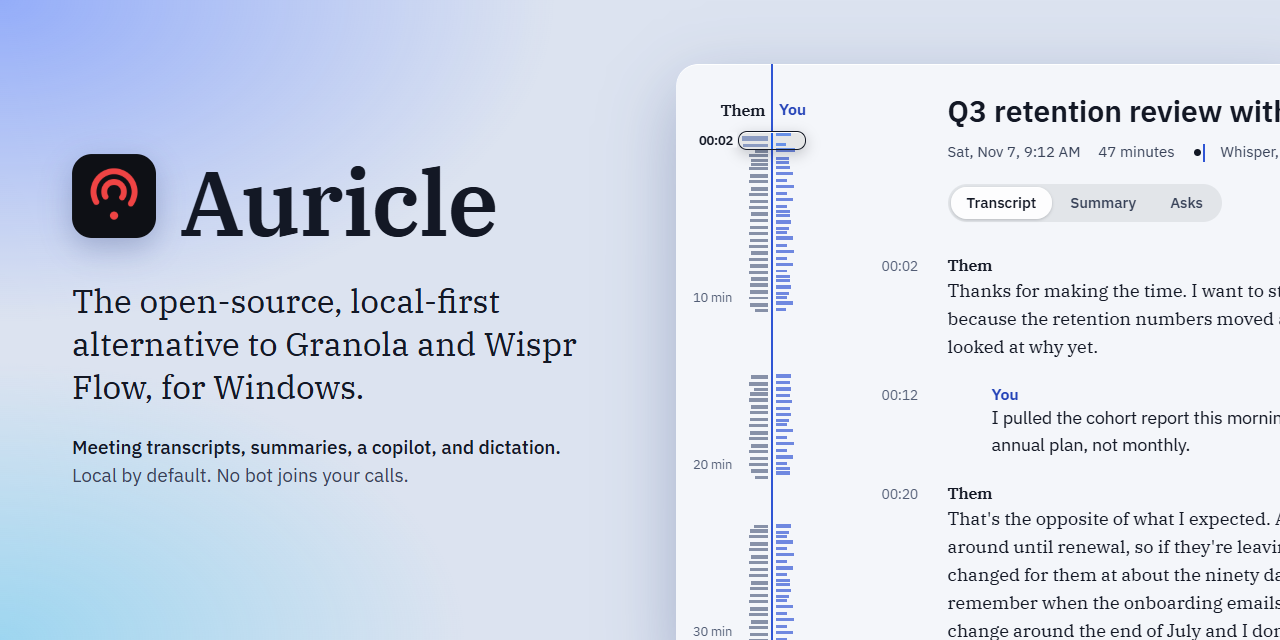
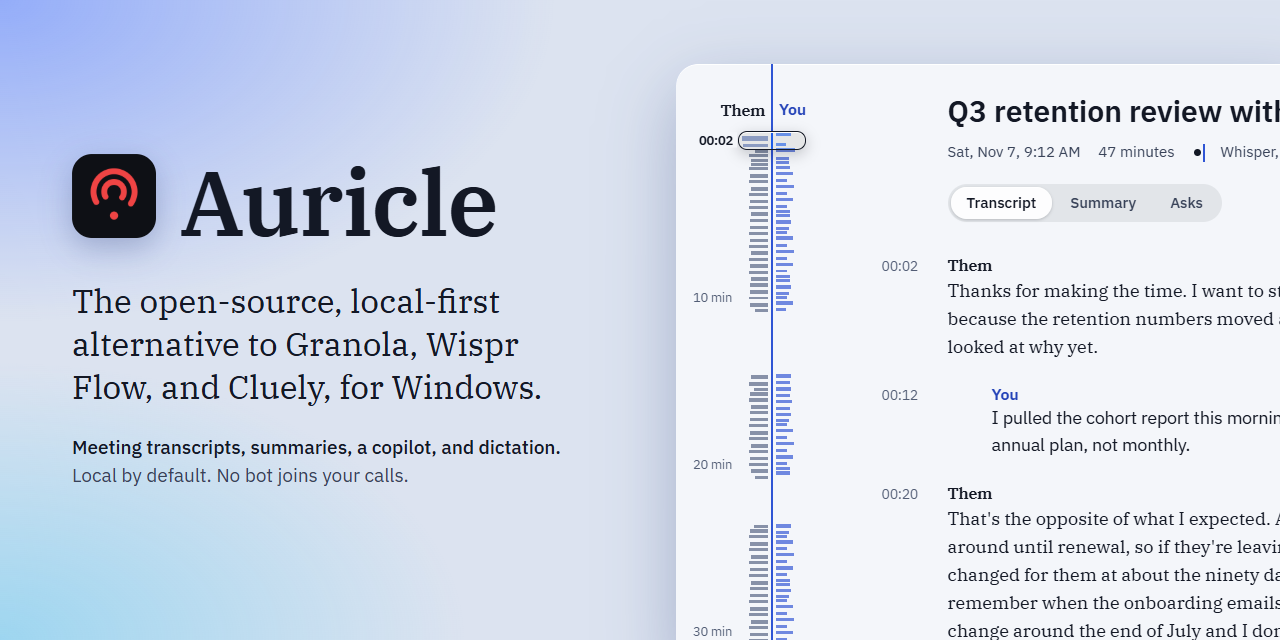
docs(readme): name Cluely, show dictation, and the current copilot card
The headline and the social preview now name Cluely next to Granola and
Wispr Flow, and the comparison table has a Cluely column taken from its
own site in November 2026: macOS and Windows, no bot, not open source,
a free tier and paid plans, with hiding from screen shares on the
$149.99/month plan. Its site doesn't say where speech is transcribed, so
the table says that and cites its privacy policy's third-party
transcription providers.

Dictation gets a demo: the real pill page, driven by a mock engine with
the overlay's own words and order, over a stand-in notes window. The
copilot screenshot was from an earlier build; it is replaced by the
current card in both themes, rendered from the release build with a
mock engine and a made-up meeting. The copilot section says the card
can be hidden from screen shares from the tray.

Changed region(s): [[0.125, 0.5625, 0.4375, 0.625], [0.3125, 0.5, 0.4688, 0.5625]]

diff --git a/README.md b/README.md
@@ -5,7 +5,7 @@
 <h1 align="center">Auricle</h1>
 
 <p align="center">
-  <b>The open-source, local-first alternative to Granola and Wispr Flow, for Windows.</b>
+  <b>The open-source, local-first alternative to Granola, Wispr Flow, and Cluely, for Windows.</b>
 </p>
 
 <p align="center">
@@ -92,17 +92,26 @@ without recompiling. Long meetings are summarized a portion at a time.
 
 ### A copilot for the meeting you're in
 
-<img src="docs/screenshots/overlay/r2_answered_light.png" width="420" alt="The Auricle copilot card: context chips naming the captured window and the last 10 minutes of transcript, above a streamed answer">
+<picture>
+  <source media="(prefers-color-scheme: dark)" srcset=".github/assets/copilot-dark.webp">
+  <img src=".github/assets/copilot-light.webp" width="420" alt="The Auricle copilot card: chips naming the captured window and the last 10 minutes of transcript, above an answer listing what was just decided and what is on you">
+</picture>
 
-<sub>From an earlier build; the card's header now also has New chat, a screen toggle, and it can be dragged.</sub>
+<sub>A made-up meeting, asked through the current card with a mock engine standing in for the model.</sub>
 
 Mid-meeting, `Ctrl+Shift+A` captures the active window (OCR'd by Windows,
 locally) and the last 10 minutes of transcript, and streams an answer to
 "what's happening right now?" into a small always-on-top card. Context chips
 name exactly what was captured. `Ctrl+Shift+Space` opens the card to ask
-anything, and `Esc` dismisses it.
+anything, and `Esc` dismisses it. The card is in your screen shares unless you
+tick **Hide copilot from screen shares** in the tray, which is free and off by
+default ([how it works](#privacy-and-transparency)).
 
 ### Dictation into any app
+
+<img src=".github/assets/demo-dictation.gif" width="900" alt="Holding Ctrl+Shift+D over a notes window: the dictation pill says Listening while the words are spoken, then Transcribing and Pasted, and the sentence appears at the cursor">
+
+<sub>Simulated: the real dictation pill, driven by a mock engine, over a stand-in notes window.</sub>
 
 Hold `Ctrl+Shift+D` in any app, talk, and let go: the text is pasted where your
 cursor was, transcribed by local `whisper-local` unless you choose otherwise. A
@@ -141,21 +150,21 @@ and arrow keys step through the session map. There is no mobile app.
 
 ## How it compares
 
-|  | **Auricle** | Granola | Otter | Wispr Flow | Superwhisper |
-|---|---|---|---|---|---|
-| Made for | Meetings and dictation | Meeting notes (plus voice typing) | Meeting notes | Dictation (plus a notetaker) | Dictation |
-| Platforms | **Windows 10/11 only** | macOS, Windows, iOS, Android | Mac, Windows, iOS, Android, web | Mac, Windows, iOS, Android | Mac, Windows, iOS, Android |
-| A bot joins your call | No | No | Yes, its notetaker joins Zoom, Teams, and Meet as a participant | No | Not applicable |
-| Where speech becomes text | On your PC by default; a cloud provider only if you pick one | Cloud | Cloud | Cloud, always | Local models that work offline, or optional cloud models |
-| Open source | **Yes (MIT)** | No | No | No | No |
-| Price | Free | Free tier, paid plans | Free tier, paid plans | Free tier, paid plans | Free tier, paid Pro |
+|  | **Auricle** | Granola | Otter | Wispr Flow | Superwhisper | Cluely |
+|---|---|---|---|---|---|---|
+| Made for | Meetings, dictation, and answers during calls | Meeting notes (plus voice typing) | Meeting notes | Dictation (plus a notetaker) | Dictation | Answers and notes during calls |
+| Platforms | **Windows 10/11 only** | macOS, Windows, iOS, Android | Mac, Windows, iOS, Android, web | Mac, Windows, iOS, Android | Mac, Windows, iOS, Android | macOS, Windows |
+| A bot joins your call | No | No | Yes, its notetaker joins Zoom, Teams, and Meet as a participant | No | Not applicable | No |
+| Where speech becomes text | On your PC by default; a cloud provider only if you pick one | Cloud | Cloud | Cloud, always | Local models that work offline, or optional cloud models | Not stated; its privacy policy lists third-party transcription providers |
+| Open source | **Yes (MIT)** | No | No | No | No | No |
+| Price | Free | Free tier, paid plans | Free tier, paid plans | Free tier, paid plans | Free tier, paid Pro | Free tier, paid plans; hidden from screen shares on the $149.99/month plan |
 
 <sub>Other products as described on their own websites in November 2026. They
 change; corrections are welcome.</sub>
 
 They run on more platforms, have mobile apps, and offer team plans; Auricle
-does none of that. What it offers instead is meetings and dictation in one
-app, transcribed locally by default, with the source open.
+does none of that. What it offers instead is meetings, dictation, and a
+copilot in one app, transcribed locally by default, with the source open.
 
 ## Get started
 
